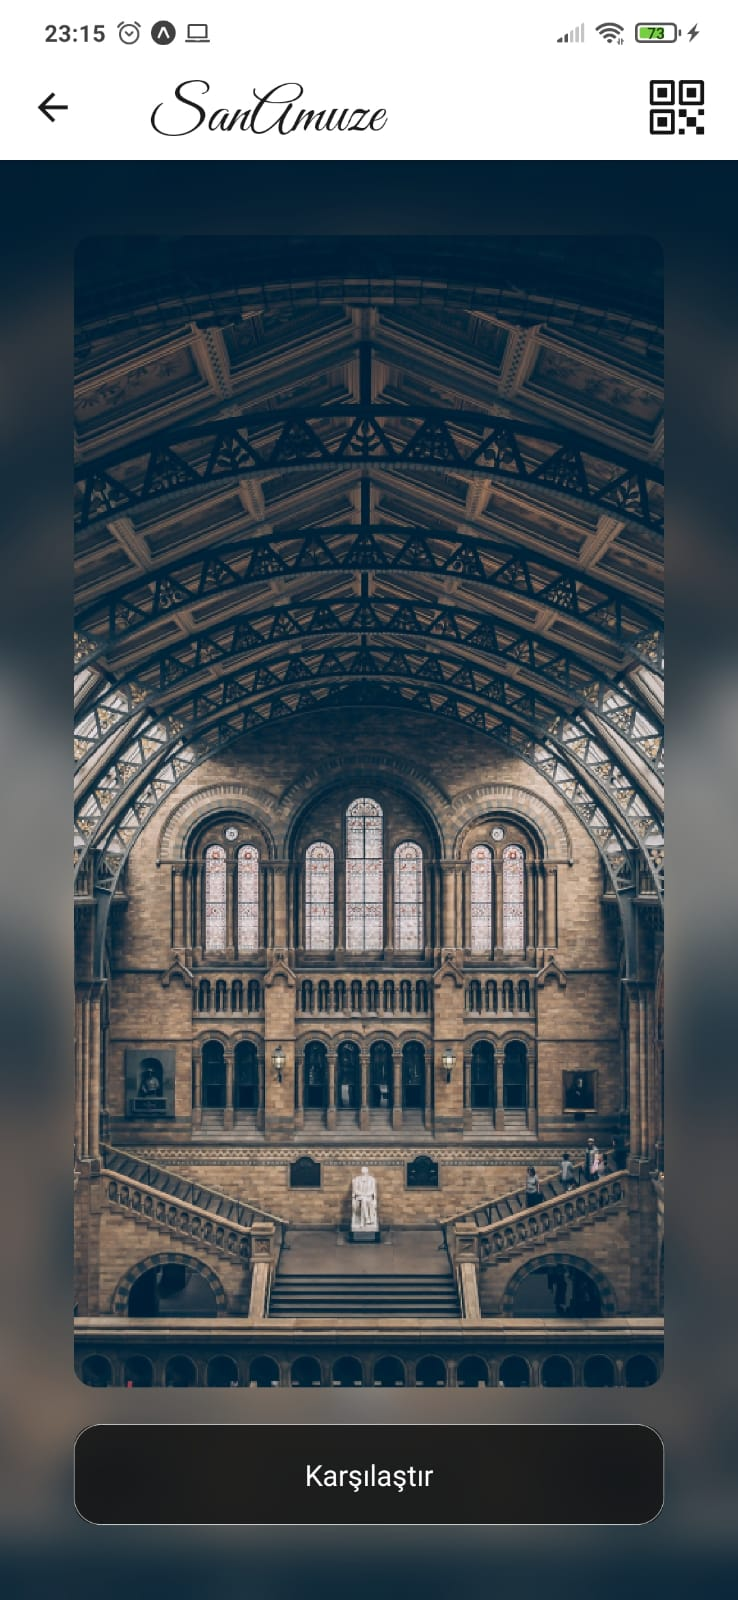
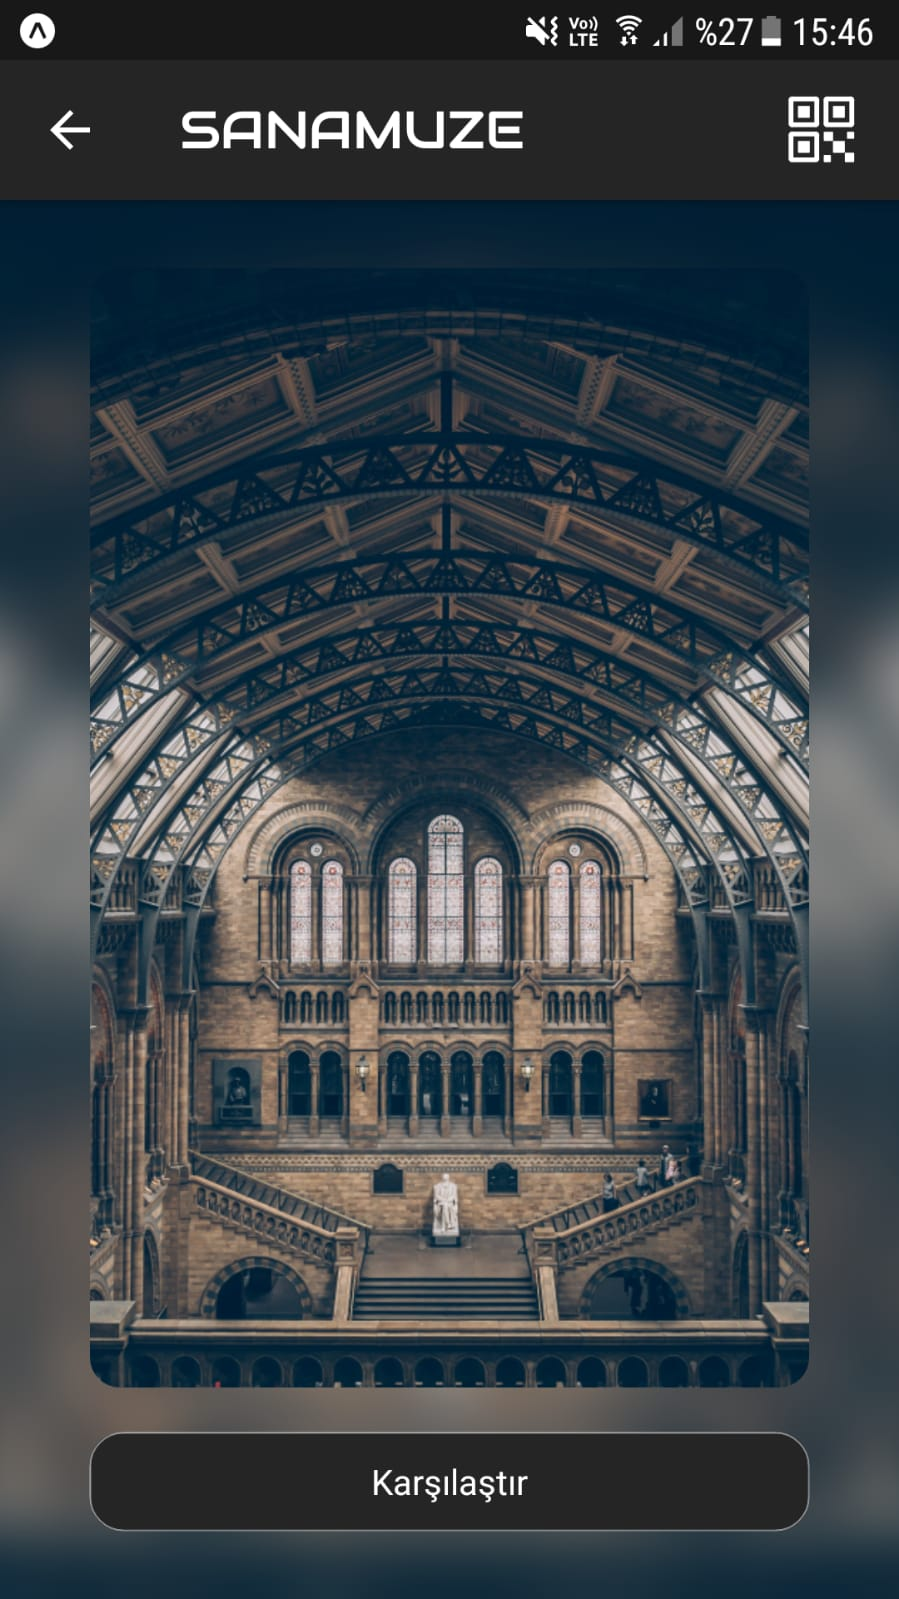
Added gradient background. Colors changed. README updated.

diff --git a/screens/Main.js b/screens/Main.js
@@ -195,6 +195,8 @@ export default function Main({ navigation }) {
           resizeMode="cover"
         />
       </View>
+      {/* BACKGROUND END */}
+      
       <Image resizeMode="cover" style={styles.image} source={{ uri: image }} />
       <TouchableOpacity
         style={styles.button}
@@ -232,7 +234,7 @@ export default function Main({ navigation }) {
                   marginTop: "15%",
                   width: "70%",
                   height: "10%",
-                  backgroundColor: Colors.seconday,
+                  backgroundColor: Colors.seconday + "AA",
                   borderRadius: 12,
                   alignItems: "center",
                   justifyContent: "center",
@@ -270,7 +272,7 @@ export default function Main({ navigation }) {
                   height: "7%",
                   alignItems: "center",
                   justifyContent: "center",
-                  backgroundColor: Colors.seconday,
+                  backgroundColor: Colors.seconday + "AA",
                   borderRadius: 12,
                 }}
               >
@@ -290,6 +292,7 @@ export default function Main({ navigation }) {
           </BarCodeScanner>
         </View>
       </ModalBox>
+      {/* QR-SCANNER MODAL END */}
 
       {/* CAMERA/GALLERY MODAL */}
       <ModalBox
@@ -343,6 +346,7 @@ export default function Main({ navigation }) {
           </TouchableOpacity>
         </View>
       </ModalBox>
+      {/* CAMERA/GALLERY MODAL */}
 
       {/* SEND IMAGE MODAL */}
       <ModalBox
@@ -398,6 +402,7 @@ export default function Main({ navigation }) {
           </View>
         </View>
       </ModalBox>
+      {/* SEND IMAGE MODAL END */}
     </SafeAreaView>
   );
 }

diff --git a/App.js b/App.js
@@ -3,7 +3,6 @@ import React from "react";
 import { NavigationContainer } from "@react-navigation/native";
 import { createNativeStackNavigator } from "@react-navigation/native-stack";
 
-
 import { useFonts } from "expo-font";
 import AppLoading from "expo-app-loading";
 
@@ -26,7 +25,13 @@ export default function App() {
 
   return (
     <NavigationContainer>
-      <StatusBar style="light" />
+      <StatusBar
+        translucent={true}
+        backgroundColor={"#181818"}
+        style={
+          "light"
+        }
+      />
       <Stack.Navigator initialRouteName="Welcome">
         <Stack.Screen
           options={{ headerShown: false }}
@@ -43,8 +48,8 @@ export default function App() {
             headerTitleStyle: {
               fontFamily: "Audiowide",
               fontSize: FontSize.normalizeFont(20),
-              color: "#FFFFFF"
-            }
+              color: "#FFFFFF",
+            },
           }}
           name="Main"
           component={Main}

diff --git a/screens/Welcome.js b/screens/Welcome.js
@@ -28,12 +28,12 @@ export default function Welcome({ navigation }) {
 
   return (
     <SafeAreaView style={styles.container}>
-      <LinearGradient colors={["#101010", "#353535"]} style={styles.gradient}>
+      <LinearGradient colors={["#101010", "#252525", "#404040"]} style={styles.gradient}>
         <Image resizeMode="contain" style={styles.logo} source={Logo} />
         <Text style={styles.title}> SAN<Text style={[styles.title, {color: Colors.accept}]}>A</Text>MUZE </Text>
         <Text style={styles.description}>
           Bu uyguluma aracılığı ile SanAmuze'de bulunan eserler ile
-          çizimlerinizi karşılaştırabilirsin. Tek yapman gereken QR kodunu
+          çizimlerini karşılaştırabilirsin. Tek yapman gereken QR kodunu
           okutup, çizimini göndermek.
         </Text>
         <TouchableOpacity

diff --git a/README.md b/README.md
@@ -2,8 +2,13 @@
 
 This is a SanAmuze mobile app. You can compare two photos and get the similarity rate.
 
-<img src="screenshots/1.jpeg" width="200"> <img src="screenshots/2.jpeg" width="200"> <img src="screenshots/3.jpeg" width="200">  <img src="screenshots/4.jpeg" width="200">
-<img src="screenshots/5.jpeg" width="200"> <img src="screenshots/6.jpeg" width="200"> <img src="screenshots/7.jpeg" width="200">
+<img src="screenshots/1.jpeg" width="200">
+<img src="screenshots/2.jpeg" width="200"> 
+<img src="screenshots/3.jpeg" width="200">
+<img src="screenshots/4.jpeg" width="200">
+<img src="screenshots/5.jpeg" width="200"> 
+<img src="screenshots/6.jpeg" width="200">
+<img src="screenshots/7.jpeg" width="200">
 
 ## Getting Started
 
